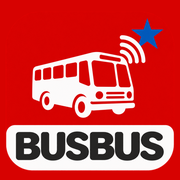
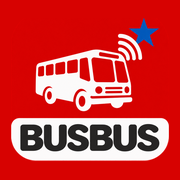
v1.6.2: setinhas renderizadas só na área visível + ícones maiores
- Setinhas de sentido: em vez de criar todas de uma vez e só esconder a
  camada por zoom, agora só os pontos dentro da área visível do mapa viram
  marcador de verdade, recalculado a cada pan/zoom — resolve a trava que
  persistia de perto, numa linha longa, mesmo sem soltar pra visão geral.
- Ícones (PWA e Android, incluindo o adaptativo e o legado) aumentados —
  a arte (ônibus + "BUSBUS") tinha margem sobrando demais ao redor.

Claude-Session: https://claude.ai/code/session_01YUJJxLxs73ubcmCRG58XRK

diff --git a/src/modules/map.js b/src/modules/map.js
@@ -195,36 +195,54 @@ const lineStyle = { color: routeLineColor(), weight: 5, opacity: 0.8 };
 // dos pontos já vem certa da API —, não de qual sentido está em destaque
 // nem de qual parada foi escolhida. Por isso valem pros dois sentidos
 // (iguais ao resto da linha, nem sólido/tracejado diferencia um do outro
-// — ver comentário acima). Ficam numa camada à parte (arrowsGroup) que só
-// é ligada ao mapa a partir de um certo zoom: em visão geral, com o
-// traçado inteiro pequeno na tela, elas ficavam densas e pesavam no
-// desempenho — de perto é que ajudam de verdade a indicar o sentido.
+// — ver comentário acima).
+//
+// Só a POSIÇÃO de cada setinha é calculada aqui (geometria pura, barata)
+// — os marcadores de verdade só nascem sob demanda, em renderVisibleArrows,
+// e só pros pontos que estão dentro da área visível do mapa no momento.
+// Antes todas as setinhas do traçado inteiro eram criadas de uma vez (só a
+// CAMADA ficava escondida em visão geral) — resolvia a poluição visual, mas
+// de perto, numa linha longa, ainda existiam centenas de marcadores no DOM
+// o tempo todo, mesmo fora da tela, e isso é o que seguia pesando e
+// travando enquanto a pessoa navegava sem soltar o zoom.
 const ARROWS_MIN_ZOOM = 15;
+const allArrowPoints = [
+...otherPatterns.flatMap(p => computeDirectionArrowPoints(p.polyLine)),
+...(state.route && state.route.length > 0 ? computeDirectionArrowPoints(state.route) : [])
+];
 const arrowsGroup = L.layerGroup();
-const updateArrowsVisibility = () => {
+const arrowColor = routeLineColor();
+const renderVisibleArrows = () => {
 if(!leafletMap) return;
-const shouldShow = leafletMap.getZoom() >= ARROWS_MIN_ZOOM;
-const isShown = leafletMap.hasLayer(arrowsGroup);
-if(shouldShow && !isShown) arrowsGroup.addTo(leafletMap);
-else if(!shouldShow && isShown) leafletMap.removeLayer(arrowsGroup);
+arrowsGroup.clearLayers();
+if(leafletMap.getZoom() < ARROWS_MIN_ZOOM){
+if(leafletMap.hasLayer(arrowsGroup)) leafletMap.removeLayer(arrowsGroup);
+return;
+}
+if(!leafletMap.hasLayer(arrowsGroup)) arrowsGroup.addTo(leafletMap);
+// Uma margem de sobra (25%) em volta da área visível, pra setinha não
+// "piscar" sumindo e voltando bem na borda da tela a cada pan pequeno.
+const bounds = leafletMap.getBounds().pad(0.25);
+allArrowPoints.forEach(pt => {
+if(!bounds.contains([pt.lat, pt.lng])) return;
+arrowsGroup.addLayer(buildArrowMarker(pt.lat, pt.lng, pt.bearing, arrowColor));
+});
 };
-leafletMap.on('zoomend', updateArrowsVisibility);
+leafletMap.on('zoomend moveend', renderVisibleArrows);
 otherPatterns.forEach(p => {
 const latLngs = p.polyLine.map(pt => [pt.lat, pt.lng]);
 L.polyline(latLngs, lineStyle).addTo(leafletMap);
 allBoundsLatLngs.push(...latLngs);
-addDirectionArrows(arrowsGroup, p.polyLine, routeLineColor());
 });
 if(state.route && state.route.length > 0){
 const latLngs = state.route.map(p => [p.lat, p.lng]);
 const routePoly = L.polyline(latLngs, lineStyle).addTo(leafletMap);
 allBoundsLatLngs.push(...latLngs);
 leafletMap.fitBounds(L.latLngBounds(allBoundsLatLngs.length ? allBoundsLatLngs : routePoly.getBounds()), { padding: [20, 20] });
-addDirectionArrows(arrowsGroup, state.route, routeLineColor());
 } else {
 leafletMap.setView([-1.4558, -48.4902], 14);
 }
-updateArrowsVisibility();
+renderVisibleArrows();
 if(state.stopSel && state.stopSel.lat){
 const stopTargetIcon = L.divIcon({
 className: 'target-stop-pin',
@@ -248,16 +266,17 @@ const x = Math.cos(lat1) * Math.sin(lat2) - Math.sin(lat1) * Math.cos(lat2) * Ma
 return (Math.atan2(y, x) * 180 / Math.PI + 360) % 360;
 }
 
-// Desenha setinhas de sentido ao longo de um traçado, tipo as da 99 na
-// polilinha da moto — mas aqui usando a ordem (já conhecida, vinda da API)
-// dos pontos do traçado em si, não a direção instantânea de um ônibus, que é
-// sempre um chute. "points" precisa estar na ordem início → fim. "targetLayer"
-// é o L.layerGroup que controla a visibilidade por zoom (ver
-// updateArrowsVisibility em initLineRouteMap) — as setinhas nunca vão direto
-// pro mapa.
-function addDirectionArrows(targetLayer, points, color){
-if(!Array.isArray(points) || points.length < 2) return;
+// Calcula AS POSIÇÕES das setinhas de sentido ao longo de um traçado, tipo
+// as da 99 na polilinha da moto — usando a ordem (já conhecida, vinda da
+// API) dos pontos do traçado em si, não a direção instantânea de um ônibus,
+// que é sempre um chute. "points" precisa estar na ordem início → fim.
+// Só geometria aqui (sem criar L.marker nenhum) — fica barato rodar pra um
+// traçado inteiro de uma vez só; quem decide QUAIS pontos viram marcador de
+// verdade na tela é renderVisibleArrows, em initLineRouteMap.
+function computeDirectionArrowPoints(points){
+if(!Array.isArray(points) || points.length < 2) return [];
 const STEP_METERS = 150; // espaçamento entre setinhas — perto o bastante pra guiar, sem poluir o traçado
+const result = [];
 let traveled = 0; // distância andada desde o início do traçado, somando segmento a segmento
 let nextArrowAt = STEP_METERS; // só a primeira seta já nasce um pouco adiante do início, não bem na primeira parada
 for(let i = 0; i < points.length - 1; i++){
@@ -268,9 +287,23 @@ const segStart = traveled, segEnd = traveled + segDist;
 // Um segmento longo pode precisar de mais de uma seta — por isso "while", não "if"
 while(nextArrowAt <= segEnd){
 const t = (nextArrowAt - segStart) / segDist;
-const lat = from.lat + (to.lat - from.lat) * t;
-const lng = from.lng + (to.lng - from.lng) * t;
-const bearing = bearingBetween(from, to);
+result.push({
+lat: from.lat + (to.lat - from.lat) * t,
+lng: from.lng + (to.lng - from.lng) * t,
+bearing: bearingBetween(from, to)
+});
+nextArrowAt += STEP_METERS;
+}
+traveled = segEnd;
+}
+return result;
+}
+
+// Cria o L.marker de UMA setinha de sentido — só é chamado pros pontos que
+// já passaram pelo filtro de "está dentro da área visível do mapa" (ver
+// renderVisibleArrows em initLineRouteMap), nunca pro traçado inteiro de
+// uma vez.
+function buildArrowMarker(lat, lng, bearing, color){
 const arrowIcon = L.divIcon({
 className: 'route-direction-arrow',
 html: `<div style="width:12px;height:12px;transform:rotate(${bearing}deg);display:flex;align-items:center;justify-content:center;"><svg width="11" height="11" viewBox="0 0 11 11"><path d="M5.5 0 L10 9.5 L5.5 7.2 L1 9.5 Z" fill="${color}" stroke="#ffffff" stroke-width="0.6"/></svg></div>`,
@@ -278,11 +311,7 @@ iconSize: [12, 12], iconAnchor: [6, 6]
 });
 // interactive/keyboard desligados: são só indicação visual, não devem
 // roubar cliques das paradas nem entrar na ordem de tabulação
-L.marker([lat, lng], { icon: arrowIcon, interactive: false, keyboard: false }).addTo(targetLayer);
-nextArrowAt += STEP_METERS;
-}
-traveled = segEnd;
-}
+return L.marker([lat, lng], { icon: arrowIcon, interactive: false, keyboard: false });
 }
 
 export function fitMapToBusAndStop(){

diff --git a/CHANGELOG.md b/CHANGELOG.md
@@ -4,6 +4,14 @@ Todas as mudanças notáveis do BusBus (B.E.M.) ficam registradas aqui, por vers
 
 Formato livremente inspirado em [Keep a Changelog](https://keepachangelog.com/pt-BR/1.0.0/). Versionamento: [SemVer](https://semver.org/lang/pt-BR/) — `MAJOR.MINOR.PATCH`, onde incompatibilidades/mudanças grandes de comportamento sobem o `MAJOR`, funcionalidades novas sem quebrar nada sobem o `MINOR`, e correções sobem o `PATCH`.
 
+## [1.6.2] — 2026-10-16
+
+### 🐛 Correções
+- **Setinhas ainda travando de perto, mesmo sem soltar o zoom pra visão geral**: elas continuavam todas criadas (só escondidas) assim que o zoom passava do limite — numa linha longa, isso significava centenas de setinhas existindo ao mesmo tempo, inclusive fora da área visível. Agora só as que estão dentro da área visível do mapa no momento são de fato desenhadas, recalculado a cada movimento/zoom — bem mais leve navegando de perto.
+
+### 🎨 Ajustes visuais
+- **Ícone do app pequeno demais dentro do quadrado/círculo**, tanto no atalho do PWA quanto no ícone instalado do Android (inclusive na tela "Informações do app"): a arte (ônibus + "BUSBUS") tinha margem sobrando demais ao redor. Aumentada em todos os tamanhos — o ícone adaptativo do Android (o que aparece na tela inicial) foi aumentado até perto do limite seguro recomendado, pra não arriscar cortar pontas em formatos de máscara mais agressivos de alguns fabricantes.
+
 ## [1.6.1] — 2026-10-16
 
 ### 🐛 Correções
